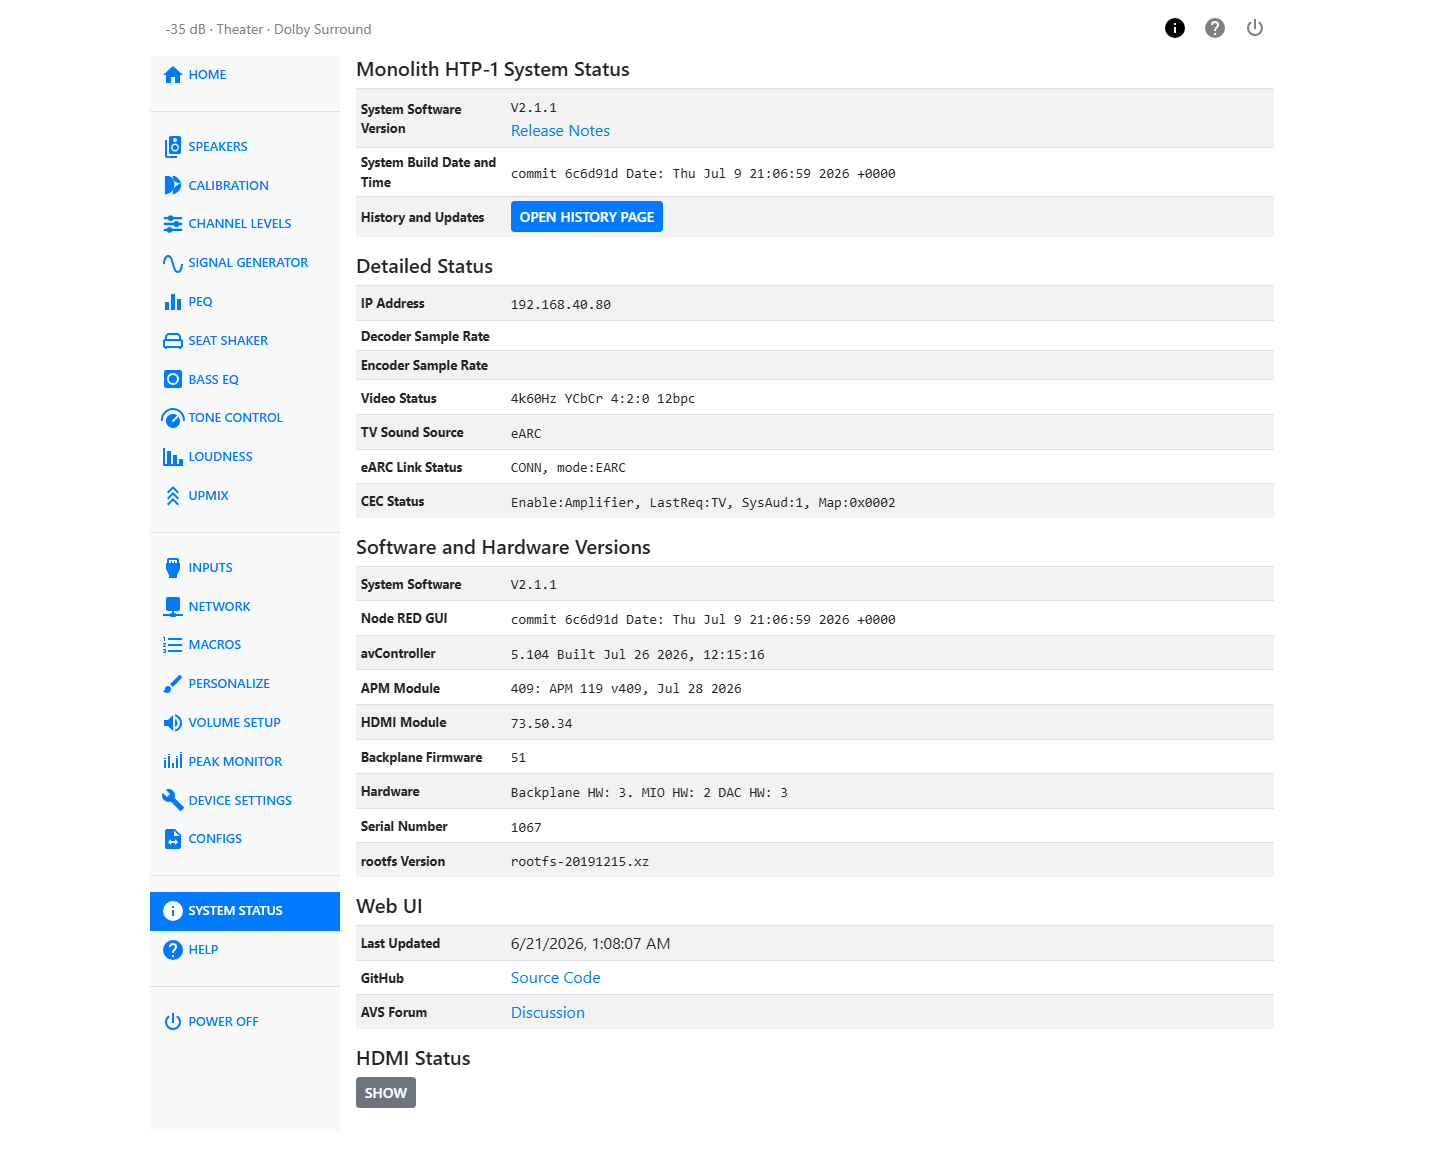
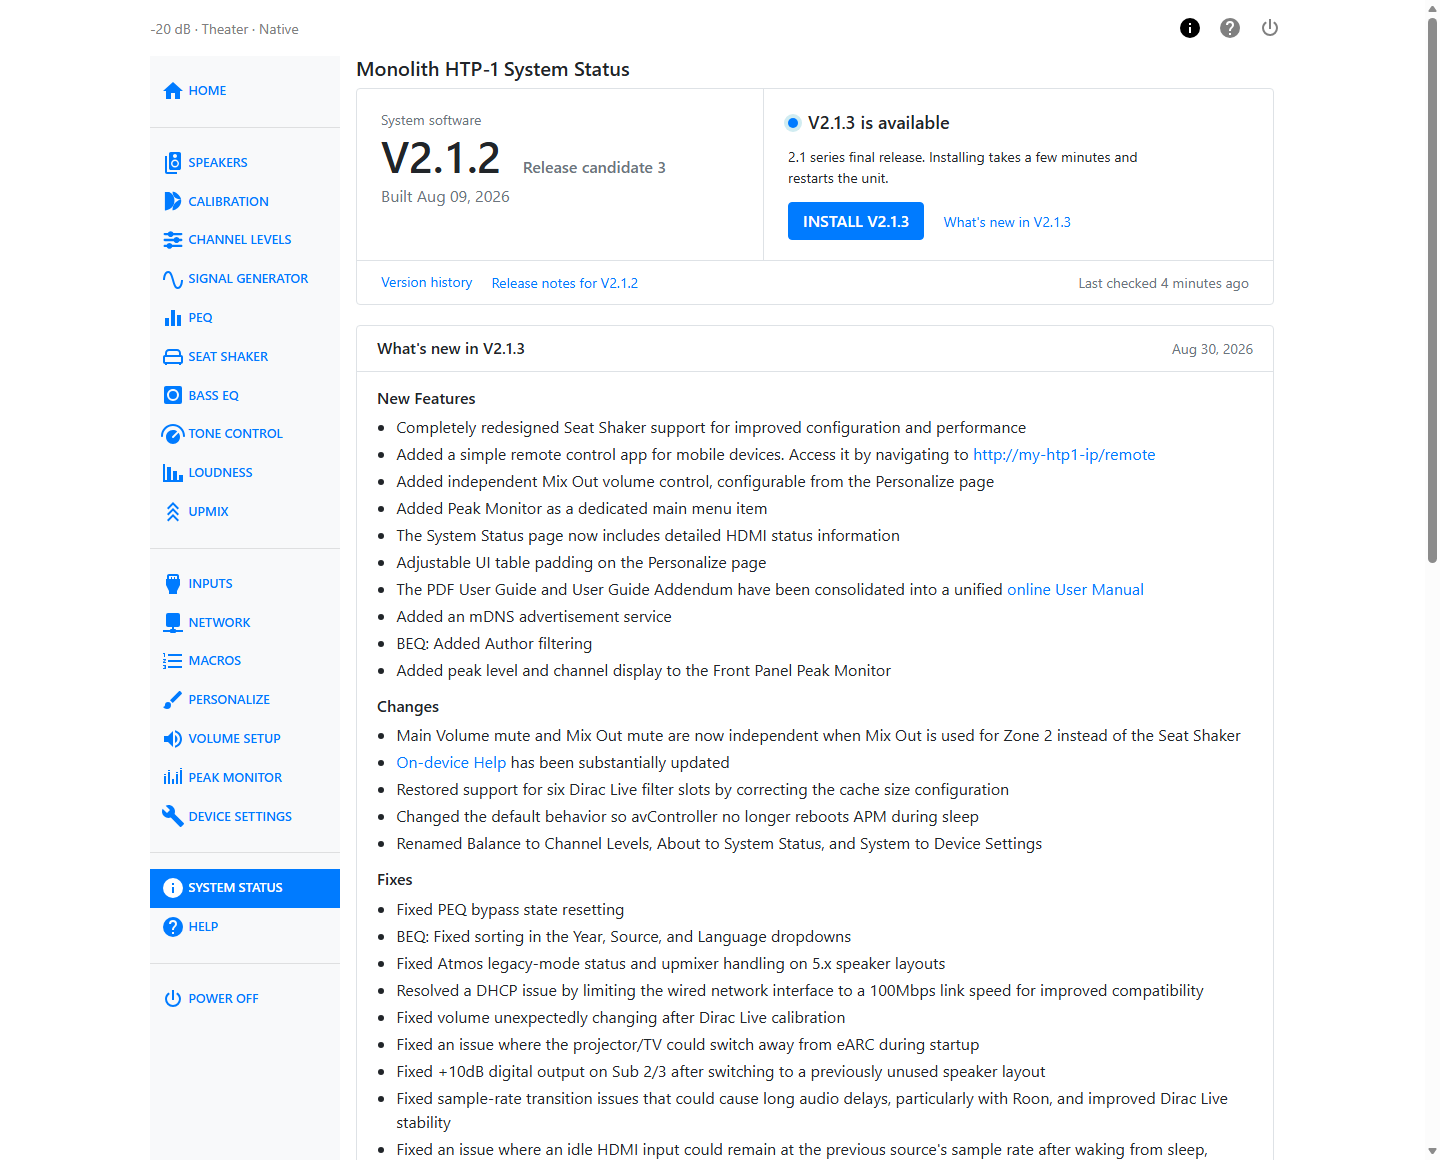
Document the new System Status page and update process
System Status now leads with the installed version, its stage and build
date, and either "up to date" or the release that is available with an
Install button; release notes for both the available and the installed
version are on the page. Updates and Support describes the Version history
page, release stages instead of the old master/preview branches, the install
dialog, what to expect, and going back to an earlier version. References on
Basic Setup and Product Overview follow. Screenshots retaken from the new
pages as an owner's unit shows them.

diff --git a/docs/user-guide/system-status.md b/docs/user-guide/system-status.md
@@ -1,67 +1,82 @@
 # System Status
 
-The System Status page tells you what software the HTP-1 is running, whether an update is
-available, and the current state of its network and HDMI connections. It also lists the exact
-hardware and software versions that support will ask for if you report a problem.
+The System Status page tells you what software the HTP-1 is running, whether a newer release
+is available, and the current state of its network and HDMI connections. It also lists the
+exact hardware and software versions that support will ask for if you report a problem.
 
-![System Status page showing software version, History and Updates, Detailed Status, and version tables](images/ui-system-status.png)
+![System Status page showing the installed version, an available update, and the connection and firmware panels](images/ui-system-status.png)
 
-## History and Updates
+## System software
 
-The **System Software Version** row shows the version currently running, with a **Release Notes**
-link next to it. Read the release notes before updating — they list new features, fixed issues,
-and any known issues for that release.
+The panel at the top is about the software itself.
 
-The **History and Updates** row has an **Open History page** button. This opens a separate page
-where you check for new firmware and install it. See [Updates and Support](maintenance.md) for the
-full update procedure.
+On the left is the version you are running, for example `V2.1.3`, with its stage next to it
+(**Final release 2.1**, **Release candidate 2**) and the date it was built.
 
-If a newer release is available, an **Update available** badge appears next to the button. No
-badge means you are already on the latest release for your branch.
+On the right is where you stand:
 
-## Detailed Status
+| You see | It means |
+| --- | --- |
+| **Your HTP-1 is up to date** | You have the newest release. **Check for updates** asks the release server again; the unit also checks on its own every six hours. |
+| **V2.1.4 is available** | A newer release exists. A one-line summary of it appears beneath. **Install V2.1.4** installs it after a confirmation; **What's new in V2.1.4** scrolls to its release notes. |
+| **Development build installed** | The unit is running a developer build rather than a public release. Owners will not normally see this. |
+
+Beneath the panel, **Version history** opens the list of every release you can install, and
+**Release notes for V2.1.3** opens the notes for the version you have. **Last checked** tells
+you how old the answer is.
+
+![System Status page when the installed release is the newest one](images/ui-system-status-up-to-date.png)
+
+When an update is available, a **What's new** panel lists its new features, changes and fixes,
+and the release notes for your installed version are folded beneath it. Open them with the
+arrow.
+
+See [Updates and Support](maintenance.md) for the update procedure and what to expect.
+
+## Connection
 
 | Field | What it shows |
 | --- | --- |
-| IP Address | The IP address currently assigned to the HTP-1 on your network. |
-| Web UI Address | The local address for opening the HTP-1 Web UI in a browser. |
-| mDNS Hostname | The HTP-1’s unique hostname used for mDNS/Bonjour discovery so applications can identify and connect to this specific unit on the local network. |
-| Decoder Sample Rate | The sample rate of the incoming audio, after decoding. |
-| Encoder Sample Rate | The sample rate of the audio being sent to the speaker outputs. |
-| Video Status | The current video resolution, color space, chroma subsampling, HDR status, bit depth, and 3D status for video received through an HTP-1 HDMI input. No video details are shown when ARC/eARC is used. |
-| TV Sound Source | Where the audio driving the TV input is coming from, for example `eARC`. |
-| eARC Link Status | The state of the eARC connection to your TV. |
-| CEC Status | The state of CEC (Consumer Electronics Control) communication with your TV and other HDMI devices. |
+| IP address | The IP address currently assigned to the HTP-1 on your network. |
+| Web UI address | The local address for opening the HTP-1 Web UI in a browser. |
+| mDNS hostname | The HTP-1’s unique hostname used for mDNS/Bonjour discovery, so applications can identify and connect to this specific unit on the local network. |
+| Decoder sample rate | The sample rate of the incoming audio, after decoding. |
+| Encoder sample rate | The sample rate of the audio being sent to the speaker outputs. |
+| Video | The current video resolution, color space, chroma subsampling, HDR status, bit depth, and 3D status for video received through an HTP-1 HDMI input. No video details are shown when ARC/eARC is used. |
+| TV sound source | Where the audio driving the TV input is coming from, for example `eARC`. |
+| eARC link | The state of the eARC connection to your TV. |
+| CEC | The state of CEC (Consumer Electronics Control) communication with your TV and other HDMI devices. |
 
-These last two fields report a short internal status string rather than a friendly sentence.
+The last two fields report a short internal status string rather than a friendly sentence.
 Support may ask you to read one of them aloud, or you can copy it exactly when writing in for
 help. See [Reference](reference.md) for a glossary of the terms that appear in them.
 
-## Software and Hardware Versions
+**HDMI status** under this panel opens a detailed dump of the current HDMI connection, useful
+when troubleshooting handshake, ARC/eARC, or CEC problems with your TV or other HDMI devices.
+**Refresh** inside the dialog pulls a new reading without closing it.
 
-This table lists every version number that identifies your unit:
+![HDMI Status dialog showing detailed HDMI connection diagnostics](images/ui-hdmi-status.png)
+
+## Hardware and firmware
 
 | Field | What it is |
 | --- | --- |
-| System Software | The main firmware version, for example `V2.1.1`. |
-| Node-RED GUI | The build of the control and automation layer. |
 | avController | The version of the component that manages audio control and device state. |
-| APM Module | The version of the audio processing module. |
-| HDMI Module | The version of the HDMI receiver/transmitter firmware. |
-| Backplane Firmware | The version running on the internal communication hub. |
+| APM module | The version of the audio processing module. |
+| HDMI module | The version of the HDMI receiver/transmitter firmware. |
+| Backplane | The version running on the internal communication hub. |
 | Hardware | The hardware revision of the backplane, MIO board, and DAC. |
-| Serial Number | Your unit's serial number. |
-| rootfs Version | The base Linux filesystem image version. |
+| Serial number | Your unit's serial number. |
+| rootfs | The base Linux filesystem image version. |
+| System build | The build of the control and automation layer. |
+| Commit | The exact source revision of the installed software. |
 
 !!! tip
-    If you contact support, include the System Software, avController, APM Module, and Serial
-    Number values from this table. They let the development team match your report to the exact
-    build you are running.
+    If you contact support, include the system software version, avController, APM module,
+    serial number and commit from this page. They let the development team match your report to
+    the exact build you are running.
 
-## HDMI Status
+## Web UI
 
-Click **Show** under HDMI Status to open a detailed dump of the current HDMI connection —
-useful when troubleshooting handshake, ARC/eARC, or CEC problems with your TV or other HDMI
-devices. Click **Refresh** inside the dialog to pull a new reading without closing it.
-
-![HDMI Status dialog showing detailed HDMI connection diagnostics](images/ui-hdmi-status.png)
+When the web interface itself was last updated, with links to its source code and the
+community discussion thread.

diff --git a/docs/user-guide/maintenance.md b/docs/user-guide/maintenance.md
@@ -2,25 +2,43 @@
 
 ## Checking Your Version
 
-Open [System Status](system-status.md) to see the software version currently running, under
-**System Software Version**. If a newer release is available, an **Update available** badge
-appears next to the **Open History page** button.
+Open [System Status](system-status.md). The panel at the top shows the version you are
+running, its stage and build date, and on the right either **Your HTP-1 is up to date** or
+**V2.1.4 is available** with a short summary of the newer release.
+
+The unit checks for new releases on its own every six hours. **Check for updates** asks the
+release server right away. When a newer release is known, an **Update available** mark also
+appears on the Home page and next to the version.
 
 ## Reading Release Notes
 
-Click **Release Notes**, next to the software version, to see what changed in the current
-release — new features, fixes, and any known issues. Read these before updating, especially if
-you rely on a feature that could be affected.
+The notes for the version you have are on the System Status page, folded under **Release notes
+for V2.1.3**. When an update is available, **What's new** shows the newer release's notes above
+them. Read these before updating, especially if you rely on a feature that could be affected.
+
+Every release's notes are also on the **Version history** page, under each version.
 
 ## Performing an Update
 
-Click **Open History page** on the System Status page. This opens a separate page listing
-available software releases.
+On the System Status page, click **Install V2.1.4** for the release that is available, or
+open **Version history** to pick a different one. A dialog shows what you have now, what will
+be installed, and what to expect. Confirm to start.
 
-Releases on the **master** branch are recommended for most users. **Preview**, **Beta** und **Release Candidate** releases are also
-listed; these are newer builds still being tested, and are meant for owners who want to help find
-problems before a release reaches master. Choose a release from the list to install it. You will
-be asked to confirm before the update starts.
+![Install dialog showing the installed version, the version that will be installed, and what to expect](images/ui-install-dialog.png)
+
+The **Version history** page lists every release published for the HTP-1, newest first. Each
+row shows the version, its stage, the date it was published, a one-line summary, its release
+notes, and an **Install** button. The version you are running is marked **Installed**; anything
+above it is marked **Newer than installed**.
+
+![Version history page listing releases with their stage, date, summary and Install buttons](images/ui-version-history.png)
+
+Stages tell you how tested a release is:
+
+- **Final release** is recommended for most owners.
+- **Release candidate** and **Public beta** releases are newer builds still being tested, meant
+  for owners who want to help find problems before a final release. Untick **Show release
+  candidates and betas** to hide them.
 
 !!! tip
     Export a configuration backup before updating, in case anything needs to be restored
@@ -34,6 +52,15 @@ close the browser tab or power down the unit while this is showing — the unit 
 when the update finishes.
 
 User settings, input names, and calibrations are preserved across a normal update.
+
+## Going Back to an Earlier Version
+
+Any release listed on the **Version history** page can be installed, newer or older. To return
+to an earlier version, find it in the list and click **Install**. The dialog warns when you are
+moving to an older version, because settings saved by newer software may not carry over.
+
+Versions before 2.0 are not listed. Returning to the 1.x series uses the separate downgrade
+procedure linked at the bottom of the page.
 
 ## Upgrading from Version 1.x
 

diff --git a/docs/user-guide/product-overview.md b/docs/user-guide/product-overview.md
@@ -113,6 +113,6 @@ Once you are inside settings, a small line of text at the top of the screen — 
 
 The **?** button in the top-right corner of every page opens **Help**, a set of sections — one per settings page — that explains the controls on the page you came from.
 
-The **i** button opens **System Status**, which displays the software version, release notes, and update history. It is also the place from which you can check for and install system software updates.
+The **i** button opens **System Status**, which shows the software version you are running, whether a newer release is available, and its release notes. Updates are installed from there, and the **Version history** page behind it lists every release you can install.
 
 The **power** button opens a confirmation dialog that lets you put the unit into standby, restart it, or power it off completely.

diff --git a/docs/user-guide/basic-setup.md b/docs/user-guide/basic-setup.md
@@ -90,7 +90,7 @@ The [Connectivity](connectivity.md) chapter gives further information on Wi-Fi, 
 
 ## Update the Firmware
 
-After you have completed the basic setup is a good time to check for firmware updates. Available firmware updates are advertised on the **System Status** page, under **History and Updates**. See [Firmware Updates & Support](maintenance.md) for the update process.
+After you have completed the basic setup is a good time to check for firmware updates. The **System Status** page shows the version you are running and, when a newer release exists, an **Install** button for it. See [Updates and Support](maintenance.md) for the update process.
 
 ## Interface Description
 
